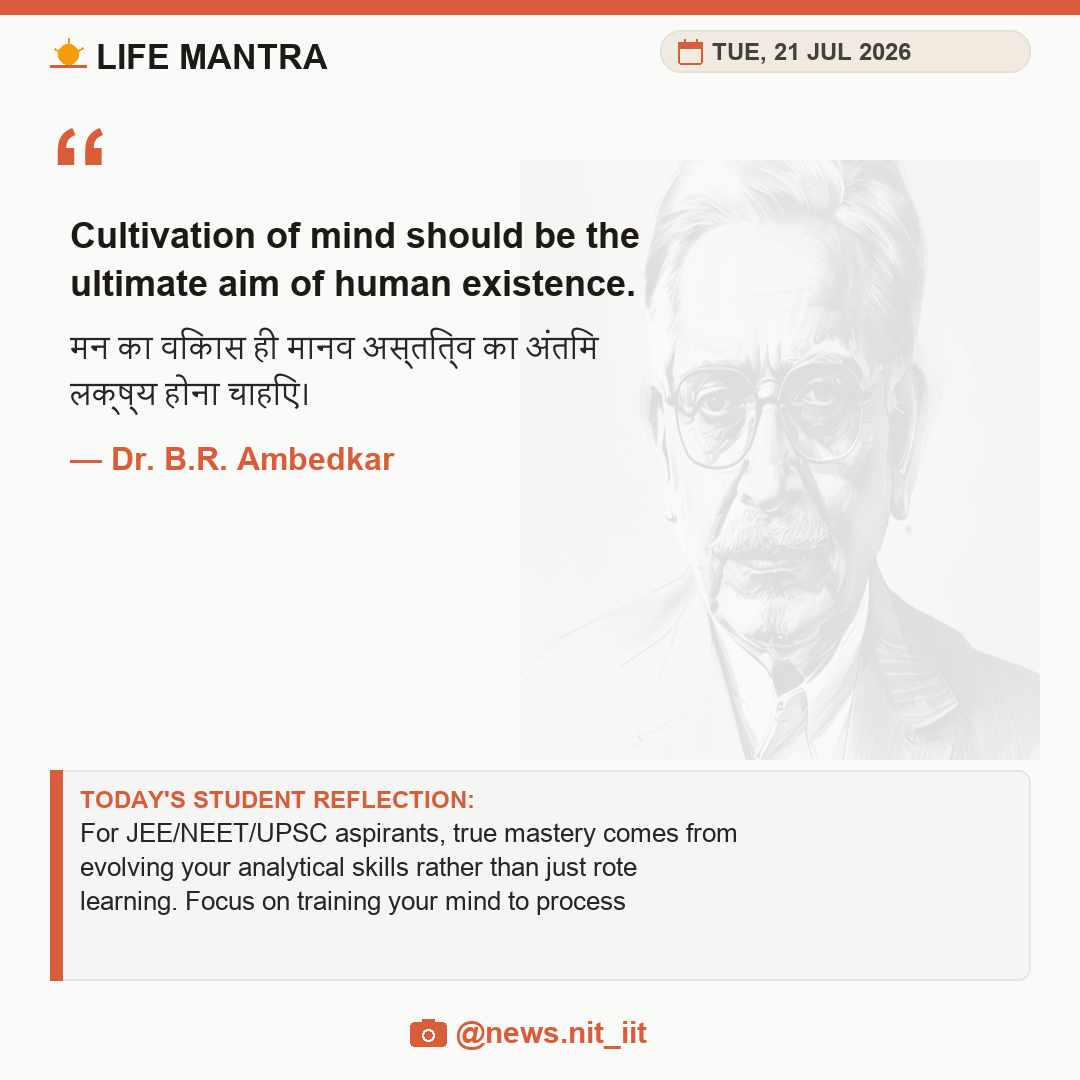
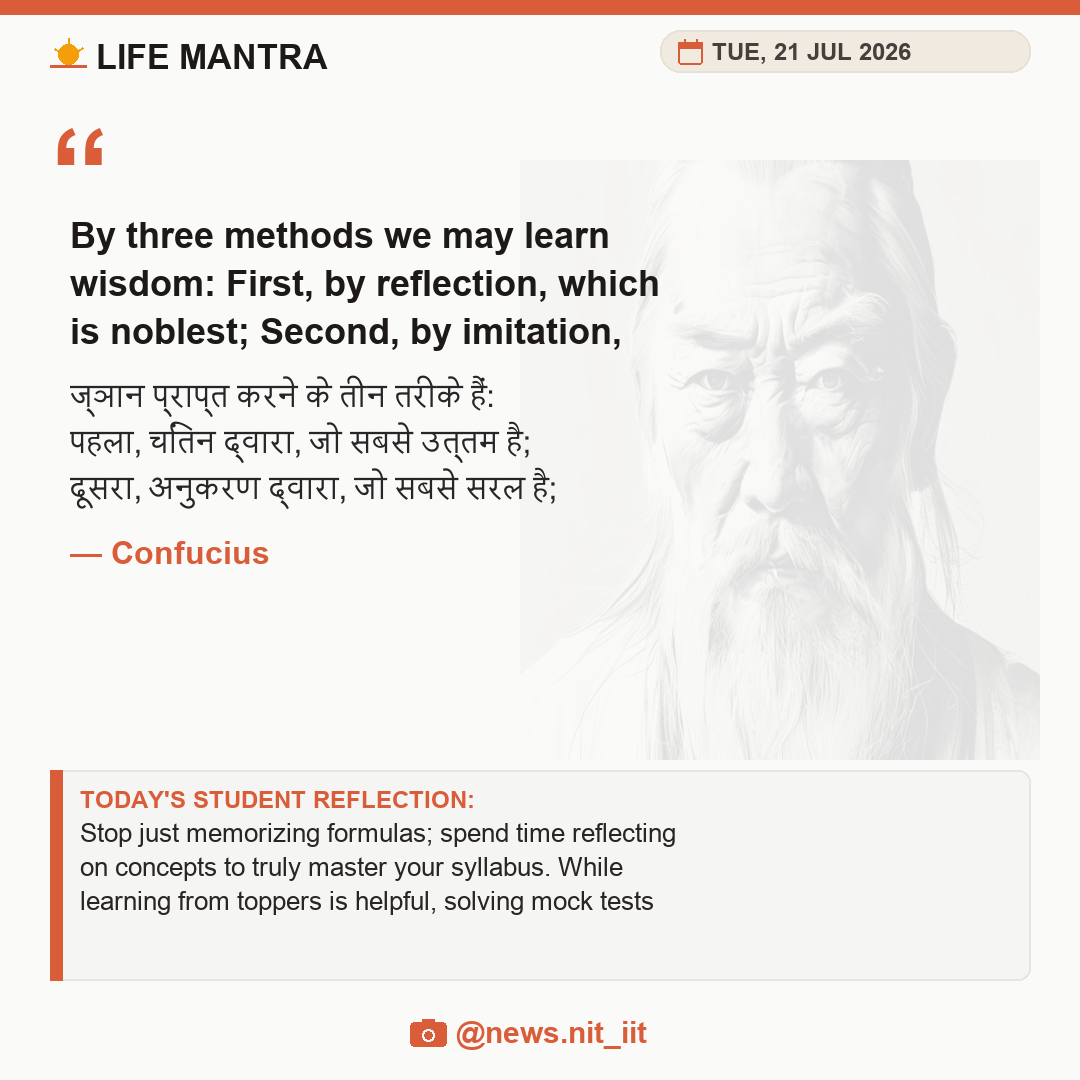
adfa

diff --git a/generate_quote.py b/generate_quote.py
@@ -10,15 +10,195 @@ import datetime
 import ai_client
 import config
 
-# Day-based Theme & Author Pool
 DAY_THEMES = {
-    "Monday": {"theme": "Career & Ambition", "focus": "Placements, Exams, Discipline", "authors": ["Dr. A.P.J. Abdul Kalam", "Steve Jobs", "Elon Musk", "Chanakya"]},
-    "Tuesday": {"theme": "Education & Mastery", "focus": "Learning, Focus, Knowledge", "authors": ["Swami Vivekananda", "Dr. B.R. Ambedkar", "Savitribai Phule", "Albert Einstein"]},
-    "Wednesday": {"theme": "Resilience & Courage", "focus": "Overcoming Failure, Persistence", "authors": ["Bhagat Singh", "Subhas Chandra Bose", "Nelson Mandela", "Winston Churchill"]},
-    "Thursday": {"theme": "Leadership & Character", "focus": "Integrity, Vision, Ethics", "authors": ["Sardar Vallabhbhai Patel", "Mahatma Gandhi", "Abraham Lincoln", "Atal Bihari Vajpayee"]},
-    "Friday": {"theme": "Success & Innovation", "focus": "Hard Work, Breakthroughs", "authors": ["Dr. A.P.J. Abdul Kalam", "Nikola Tesla", "Bill Gates", "ISRO Scientists"]},
-    "Saturday": {"theme": "Life & Mindset", "focus": "Mindset, Gratitude, Growth", "authors": ["Rabindranath Tagore", "Marcus Aurelius", "Stephen Hawking", "Mother Teresa"]},
-    "Sunday": {"theme": "Peace & Reflection", "focus": "Mindfulness, Purpose", "authors": ["Swami Vivekananda", "Gautama Buddha", "Mahatma Gandhi", "Lao Tzu"]},
+    "Monday": {
+        "theme": "Career & Ambition",
+        "focus": "Placements, Careers, Discipline, Goals",
+        "authors": [
+            "Dr. A.P.J. Abdul Kalam",
+            "Steve Jobs",
+            "Elon Musk",
+            "Chanakya",
+            "Ratan Tata",
+            "Narayana Murthy",
+            "Nandan Nilekani",
+            "Bill Gates",
+            "Jeff Bezos",
+            "Sundar Pichai",
+            "Satya Nadella",
+            "Indra Nooyi",
+            "Warren Buffett",
+            "Jack Ma",
+            "Dhirubhai Ambani",
+            "Azim Premji",
+            "Kiran Mazumdar-Shaw",
+            "Shiv Nadar",
+            "Tim Cook",
+            "Larry Page"
+        ]
+    },
+
+    "Tuesday": {
+        "theme": "Education & Learning",
+        "focus": "Knowledge, Curiosity, Wisdom",
+        "authors": [
+            "Swami Vivekananda",
+            "Dr. B.R. Ambedkar",
+            "Savitribai Phule",
+            "Albert Einstein",
+            "Rabindranath Tagore",
+            "Confucius",
+            "Aristotle",
+            "Socrates",
+            "Plato",
+            "Maria Montessori",
+            "A.P.J. Abdul Kalam",
+            "C.V. Raman",
+            "Homi J. Bhabha",
+            "Aryabhata",
+            "Dr. Vikram Sarabhai",
+            "Abdul Kalam Azad",
+            "J. Krishnamurti",
+            "Carl Sagan",
+            "Richard Feynman",
+            "Stephen Hawking"
+        ]
+    },
+
+    "Wednesday": {
+        "theme": "Resilience & Courage",
+        "focus": "Failure, Persistence, Determination",
+        "authors": [
+            "Bhagat Singh",
+            "Subhas Chandra Bose",
+            "Nelson Mandela",
+            "Winston Churchill",
+            "Abraham Lincoln",
+            "Helen Keller",
+            "Malala Yousafzai",
+            "Thomas Edison",
+            "Michael Jordan",
+            "Muhammad Ali",
+            "Mary Kom",
+            "Milkha Singh",
+            "P.V. Sindhu",
+            "Sachin Tendulkar",
+            "M.S. Dhoni",
+            "Virat Kohli",
+            "Amitabh Bachchan",
+            "J.K. Rowling",
+            "Nick Vujicic",
+            "Rocky Balboa (Fictional)"
+        ]
+    },
+
+    "Thursday": {
+        "theme": "Leadership & Character",
+        "focus": "Integrity, Ethics, Vision",
+        "authors": [
+            "Sardar Vallabhbhai Patel",
+            "Mahatma Gandhi",
+            "Abraham Lincoln",
+            "Atal Bihari Vajpayee",
+            "Lal Bahadur Shastri",
+            "Jawaharlal Nehru",
+            "Nelson Mandela",
+            "Martin Luther King Jr.",
+            "Aung San Suu Kyi",
+            "Theodore Roosevelt",
+            "Lee Kuan Yew",
+            "Ratan Tata",
+            "Narayana Murthy",
+            "Nandan Nilekani",
+            "Simon Sinek",
+            "Peter Drucker",
+            "John C. Maxwell",
+            "Shivaji Maharaj",
+            "Sam Manekshaw",
+            "Field Marshal Cariappa"
+        ]
+    },
+
+    "Friday": {
+        "theme": "Success & Innovation",
+        "focus": "Innovation, Entrepreneurship, Progress",
+        "authors": [
+            "Nikola Tesla",
+            "Bill Gates",
+            "Steve Jobs",
+            "Elon Musk",
+            "Larry Page",
+            "Sergey Brin",
+            "Mark Zuckerberg",
+            "Sam Altman",
+            "Demis Hassabis",
+            "Sundar Pichai",
+            "Satya Nadella",
+            "Ratan Tata",
+            "Azim Premji",
+            "Dr. Vikram Sarabhai",
+            "Dr. A.P.J. Abdul Kalam",
+            "ISRO Scientists",
+            "N.R. Narayana Murthy",
+            "Kailasavadivoo Sivan",
+            "Thomas Edison",
+            "Henry Ford"
+        ]
+    },
+
+    "Saturday": {
+        "theme": "Life & Mindset",
+        "focus": "Growth, Happiness, Gratitude",
+        "authors": [
+            "Rabindranath Tagore",
+            "Marcus Aurelius",
+            "Stephen Hawking",
+            "Mother Teresa",
+            "Dalai Lama",
+            "Osho",
+            "Naval Ravikant",
+            "Brené Brown",
+            "Robin Sharma",
+            "James Clear",
+            "Simon Sinek",
+            "Leo Tolstoy",
+            "Rumi",
+            "Khalil Gibran",
+            "Thich Nhat Hanh",
+            "Wayne Dyer",
+            "Eckhart Tolle",
+            "Louise Hay",
+            "Sri Sri Ravi Shankar",
+            "Sadhguru"
+        ]
+    },
+
+    "Sunday": {
+        "theme": "Peace & Reflection",
+        "focus": "Purpose, Spirituality, Inner Peace",
+        "authors": [
+            "Swami Vivekananda",
+            "Gautama Buddha",
+            "Mahatma Gandhi",
+            "Lao Tzu",
+            "Confucius",
+            "Rumi",
+            "Kabir",
+            "Guru Nanak",
+            "Ramakrishna Paramahamsa",
+            "J. Krishnamurti",
+            "Mother Teresa",
+            "Dalai Lama",
+            "Sri Aurobindo",
+            "Paramahansa Yogananda",
+            "Osho",
+            "Sadhguru",
+            "Patanjali",
+            "Saint Augustine",
+            "Thich Nhat Hanh",
+            "Pope Francis"
+        ]
+    }
 }
 
 QUOTE_PROMPT = """You are a quote editor for @news.nit_iit (Indian college students & Gen Z) for the "Life Mantra" daily morning series.

diff --git a/design_quote_post.py b/design_quote_post.py
@@ -71,7 +71,7 @@ def draw_camera_logo(draw, x, y, color):
     draw.ellipse([(x + 10, y + 10), (x + 26, y + 26)], fill="#FAFAF9", outline=color, width=2)
     draw.ellipse([(x + 14, y + 14), (x + 22, y + 22)], fill=color)
 
-def draw_calendar_icon(draw, x, y, color="#D95D39"):
+def draw_calendar_icon(draw, x, y, color="#972A0B"):
     """Draws a crisp vector calendar icon directly in RGB mode."""
     # Calendar Body
     draw.rounded_rectangle([(x, y + 4), (x + 24, y + 26)], radius=3, fill="#F0EAE1", outline=color, width=2)
